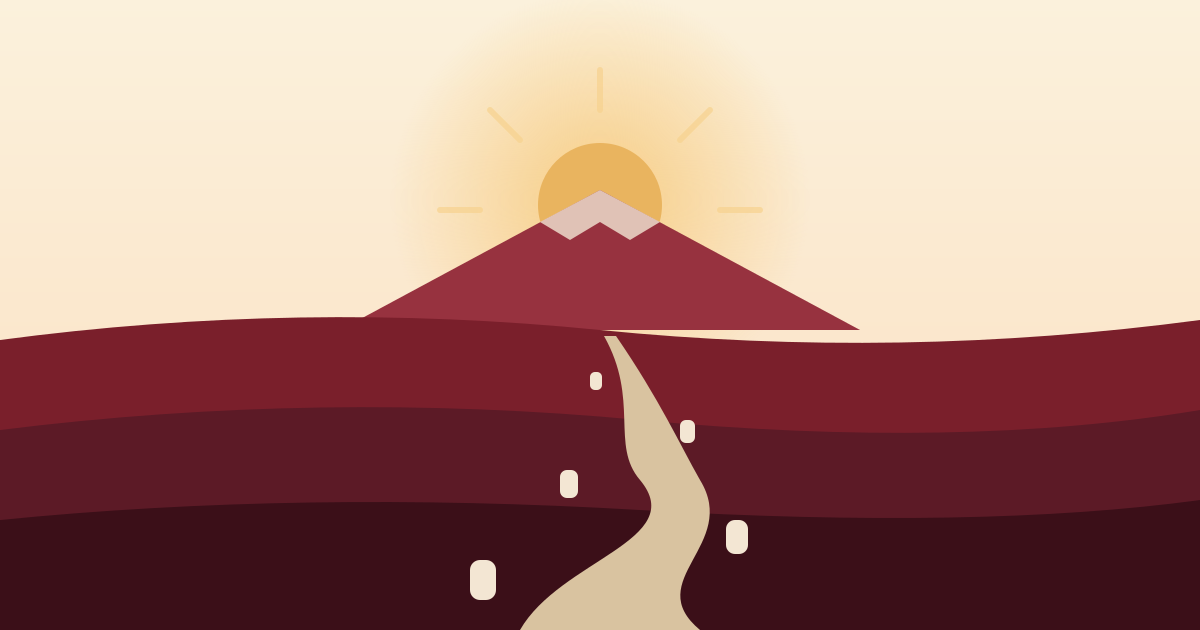
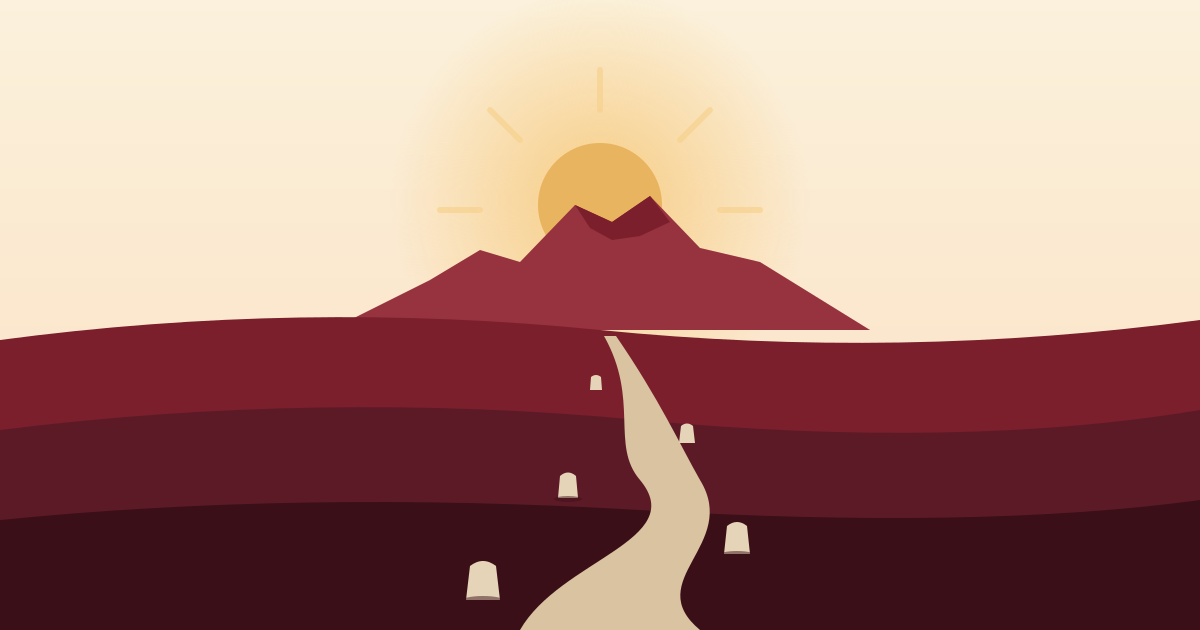
Janeiro: correções da revisão nas parashás e nos artigos; ilustrações refeitas
Claude-Session: https://claude.ai/code/session_01TaZ1YpWzM1atQDEi1ZX7Xa

diff --git a/src/content/blog/santa-ceia-e-pascoa-judaica.md b/src/content/blog/santa-ceia-e-pascoa-judaica.md
@@ -1,14 +1,14 @@
 ---
-title: "A Ceia do Senhor e a Páscoa judaica: o que mudou"
-description: "Como a Ceia do Senhor nasceu na Páscoa judaica: o pão sem fermento, os cálices, o hino e a memória, e o que isso muda ao participar da Ceia."
+title: "Santa Ceia e Páscoa judaica: o que Jesus mudou"
+description: "Como a Santa Ceia nasceu na Páscoa judaica: o pão sem fermento, os cálices, o hino e a memória, e o que isso muda ao participar da Ceia."
 pubDate: 2027-01-18T07:00:00-03:00
 image: "/images/posts/santa-ceia-e-pascoa-judaica.png"
-imageAlt: "Ilustração de uma mesa simples com pão achatado e um cálice, diante de uma janela em arco que mostra a lua cheia sobre colinas à noite"
+imageAlt: "Mesa simples ao ar livre com pão achatado, um cálice e uma lamparina acesa, diante das colinas sob a lua cheia"
 category: "Vida cristã"
 tags: ["contexto judaico", "Jesus", "festas bíblicas", "evangelhos"]
 ---
 
-**A Ceia do Senhor nasceu numa refeição de Páscoa: nos três primeiros evangelhos, Jesus a instituiu na ceia pascal com os discípulos, usando o pão sem fermento e o cálice de vinho, elementos da Páscoa judaica.** Ele mesmo disse: "Desejei muito comer convosco esta Páscoa, antes que padeça" (Lucas 22:15).
+**A Santa Ceia, ou Ceia do Senhor, nasceu numa refeição de Páscoa: nos três primeiros evangelhos, Jesus a instituiu na ceia pascal com os discípulos, usando o pão sem fermento e o cálice de vinho, elementos da Páscoa judaica.** Ele mesmo disse: "Desejei muito comer convosco esta Páscoa, antes que padeça" (Lucas 22:15).
 
 Muitos cristãos participam da Ceia há anos sem saber de onde vêm o pão e o cálice. Quando a gente conhece a Páscoa judaica, gestos simples ganham peso: o pão sem fermento, o cálice "depois da ceia", o hino no fim e a palavra "memória".
 
@@ -16,36 +16,36 @@ A seguir: como era a Páscoa no tempo de Jesus, o que os evangelhos contam da ú
 
 ## A Páscoa no tempo de Jesus
 
-A Páscoa lembra a libertação do Egito. Em Êxodo, cada família comia o cordeiro com pães sem fermento e ervas amargas, e Deus disse: "este dia vos será por memória" (Êxodo 12:14). Os filhos perguntariam o sentido da festa, e os pais contariam a história (Êxodo 12:26-27).
+A Páscoa lembra a libertação do Egito, contada em Êxodo 12 (veja o episódio da [parashá Bo, com a primeira Páscoa](/blog/parasha-bo-em-5-minutos/)). Cada família comia o cordeiro com pães sem fermento e ervas amargas, e a festa devia ser lembrada de geração em geração.
 
-No tempo de Jesus, multidões subiam a Jerusalém para a festa. A refeição era feita em família ou em grupos, à noite, com o cordeiro sacrificado no Templo, o pão sem fermento, vinho e salmos de louvor. O roteiro detalhado da ceia judaica de hoje, o *seder*, foi registrado depois, na Mishná, mas várias de suas partes já existiam: o pão, os cálices, as perguntas e os salmos.
+No tempo de Jesus, multidões subiam a Jerusalém para a festa. A refeição era feita em família ou em grupos, à noite, com o cordeiro sacrificado no Templo, o pão sem fermento, vinho e salmos de louvor. As primeiras regras do *seder*, a ceia judaica de Páscoa, aparecem na Mishná, por volta do ano 200; o roteiro usado hoje, a *Hagadá*, se formou depois. É provável que alguns elementos, como o pão sem fermento, as perguntas dos filhos (Êxodo 12:26) e os salmos de louvor, já existissem no tempo de Jesus.
 
 ## O que os evangelhos contam da última ceia
 
 Mateus, Marcos e Lucas situam a ceia na Páscoa: "no primeiro dia da Festa dos Pães Asmos, chegaram os discípulos junto de Jesus, dizendo: Onde queres que preparemos a comida da Páscoa?" (Mateus 26:17).
 
-Lucas conta que Jesus tomou um cálice antes do pão (Lucas 22:17) e outro "depois da ceia": "Este cálice é o Novo Testamento no meu sangue, que é derramado por vós" (Lucas 22:20). Isso combina com uma refeição de Páscoa, que tinha mais de um cálice.
+Lucas conta que Jesus tomou um cálice antes do pão (Lucas 22:17) e outro "depois da ceia": "Este cálice é o Novo Testamento no meu sangue, que é derramado por vós" (Lucas 22:20). Isso combina com a ceia de Páscoa descrita pela tradição judaica, que fala em quatro cálices.
 
 No fim, "tendo cantado um hino, saíram para o monte das Oliveiras" (Mateus 26:30). Muitos estudiosos entendem que era o *Hallel*, os Salmos 113 a 118, cantados na Páscoa. Se for isso, naquela noite Jesus cantou com os discípulos o Salmo 118: "A pedra que os edificadores rejeitaram tornou-se cabeça de esquina" (Salmos 118:22), um versículo que ele mesmo tinha aplicado a si dias antes (Mateus 21:42).
 
-O Evangelho de João conta a cronologia de outro jeito: a ceia acontece "antes da festa da Páscoa" (João 13:1), e Jesus é crucificado no dia da "preparação da Páscoa" (João 19:14), quando os cordeiros eram sacrificados. Os estudiosos discutem como harmonizar as datas. Nos dois casos, a ligação entre Jesus e a Páscoa é o centro.
+O Evangelho de João conta a cronologia de outro jeito. Na manhã seguinte à ceia, os líderes não entram no pretório de Pilatos para não se contaminarem e poderem comer a Páscoa (João 18:28), e Jesus é crucificado no dia da "preparação da Páscoa" (João 19:14), quando os cordeiros eram sacrificados. Pelo relato de João, a ceia de Jesus aconteceu antes da refeição pascal. Os estudiosos discutem como harmonizar as datas. Nos dois casos, a ligação entre Jesus e a Páscoa é o centro.
 
-## O que mudou na Ceia do Senhor
+## O que Jesus mudou na Santa Ceia
 
 Jesus pegou elementos da Páscoa e deu a eles um sentido novo:
 
 - **O pão.** O pão sem fermento lembrava a pressa da saída do Egito. Jesus disse: "Isto é o meu corpo, que por vós é dado; fazei isso em memória de mim" (Lucas 22:19).
 - **O cálice.** O vinho da festa passa a ser sinal da nova aliança. "Novo Testamento", na ARC, quer dizer "nova aliança", a promessa de Jeremias 31:31-33 de uma lei escrita no coração.
-- **A memória.** "Memória", em hebraico *zikaron*, não é só lembrar com a cabeça. Na Páscoa, cada geração conta a saída do Egito como se tivesse estado lá. Paulo diz que, ao participar da Ceia, "anunciais a morte do Senhor, até que venha" (1 Coríntios 11:26).
+- **A memória.** "Memória", em hebraico *zikaron*, não é só lembrar com a cabeça. A tradição judaica ensina que, na Páscoa, cada geração deve se ver como se ela mesma tivesse saído do Egito (Mishná, Pesachim 10:5). Paulo diz que, ao participar da Ceia, "anunciais a morte do Senhor, até que venha" (1 Coríntios 11:26).
 - **O cordeiro.** Na Ceia não há cordeiro na mesa. Para os cristãos, o próprio Jesus é o cordeiro: "Cristo, nossa páscoa, foi sacrificado por nós" (1 Coríntios 5:7).
 
 As igrejas celebram a Ceia com frequências e entendimentos diferentes sobre o pão e o vinho. O que todas guardam é o que Jesus mandou: fazer isso em memória dele.
 
 ## Como participar da Ceia com esse olhar
 
-1. **Antes do culto, leia Êxodo 12.** Repare no cordeiro, no sangue, no pão sem fermento e na palavra "memória".
+1. **Antes da celebração, leia Êxodo 12.** Repare no cordeiro, no sangue, no pão sem fermento e na palavra "memória". O [plano de leitura da Torá](/plano-de-leitura-tora/) mostra em que semana do ano esse capítulo é lido na sinagoga.
 2. **Leia também Lucas 22:14-20.** Veja os dois cálices e o pão.
-3. **Na hora do pão, lembre-se da pressa da libertação.** Deus tirou o seu povo da escravidão; em Jesus, ele também liberta.
+3. **Na hora do pão, lembre-se do corpo de Jesus dado por você** e da libertação que ele trouxe, como Deus tirou o seu povo do Egito.
 4. **Na hora do cálice, pense na nova aliança.** A lei escrita no coração, não só em pedra.
 5. **Saia cantando.** Como Jesus e os discípulos, termine com um salmo de louvor, como o Salmo 118.
 
@@ -58,8 +58,8 @@ As igrejas celebram a Ceia com frequências e entendimentos diferentes sobre o p
 **A Santa Ceia era uma refeição de Páscoa?**
 Nos evangelhos de Mateus, Marcos e Lucas, sim: Jesus a instituiu na ceia pascal (Mateus 26:17; Lucas 22:15). O Evangelho de João situa a ceia um pouco antes da Páscoa, e os estudiosos discutem como harmonizar as datas.
 
-**Por que se usa pão sem fermento na Ceia?**
-Porque na Páscoa só se comia pão sem fermento, lembrando a pressa da saída do Egito (Êxodo 12). Algumas igrejas usam pão sem fermento por isso; outras usam pão comum.
+**A Santa Ceia substitui a Páscoa judaica?**
+Para a fé cristã, a Ceia dá à Páscoa um sentido novo em Jesus, mas não apaga a festa de Israel, que os judeus continuam celebrando. Alguns cristãos participam de um *seder* para conhecer o contexto; isso é opcional, e as igrejas pensam diferente sobre o assunto.
 
 **Quantos cálices havia na Páscoa?**
 A tradição judaica registrada depois fala em quatro cálices. Lucas menciona dois na última ceia: um antes do pão e outro depois da ceia (Lucas 22:17-20).
@@ -72,10 +72,10 @@ Para continuar, leia o episódio da [parashá Bo, com a primeira Páscoa](/blog/
 
 ## Referências
 
-- Êxodo 12; 12:14; 12:26-27
+- Êxodo 12; 12:26
 - Lucas 22:14-20
 - Mateus 21:42; 26:17; 26:30
-- João 13:1; 19:14
+- João 18:28; 19:14
 - Jeremias 31:31-33
 - 1 Coríntios 5:7; 11:26
 - Salmos 113 a 118; 118:22

diff --git a/src/content/blog/o-que-e-a-tora.md b/src/content/blog/o-que-e-a-tora.md
@@ -3,7 +3,7 @@ title: "O que é a Torá? Significado, os 5 livros e Jesus"
 description: "O que é a Torá, o que a palavra significa, quais são os cinco livros, como ela é lida na sinagoga e como Jesus se relacionava com ela."
 pubDate: 2027-01-04T07:00:00-03:00
 image: "/images/posts/o-que-e-a-tora.png"
-imageAlt: "Ilustração de um caminho que sobe entre colinas até um monte iluminado pelo sol nascente, com cinco pedras de marco ao longo da estrada"
+imageAlt: "Caminho que sobe entre colinas até um monte de pedra iluminado pelo sol nascente, com cinco pedras de marco ao longo da estrada"
 category: "Vida cristã"
 tags: ["Torá", "contexto judaico", "estudo bíblico", "Jesus"]
 ---
@@ -36,15 +36,17 @@ A Bíblia hebraica tem três partes: a Torá, os Profetas (*Neviim*) e os Escrit
 
 ## Como a Torá é lida na sinagoga
 
-Na sinagoga, a Torá é lida de um rolo escrito à mão, o *Sefer Torá*, copiado letra por letra por um escriba. O texto é dividido em 54 porções, as *parashot*, e uma delas é lida a cada sábado.
+Na sinagoga, a Torá é lida de um rolo escrito à mão, o *Sefer Torá*, copiado letra por letra por um escriba. Hoje o texto é dividido em 54 porções, as *parashot*: uma (às vezes duas juntas) a cada sábado, de modo que a Torá inteira é lida em um ano. Às segundas e quintas de manhã, lê-se em público o começo da porção do sábado seguinte.
 
-Também há leituras menores às segundas e quintas de manhã e nas festas. Assim, a Torá inteira é lida em um ano. O ciclo termina e recomeça logo depois da Festa dos Tabernáculos, numa celebração chamada *Simchat Torá*, "alegria da Torá". Era esse costume de leitura que Jesus conhecia quando entrava na sinagoga no sábado (Lucas 4:16).
+O ciclo termina e recomeça no encerramento das festas de outono, no dia seguinte aos sete dias dos Tabernáculos (ou no outro, fora de Israel), numa celebração chamada *Simchat Torá*, "alegria da Torá".
 
-Além do texto escrito, o judaísmo tem a tradição oral, as explicações dos mestres sobre como viver a Torá, que mais tarde foram registradas na Mishná e no Talmude.
+A leitura da Torá aos sábados já existia no tempo de Jesus. Tiago lembra no concílio de Jerusalém: "Moisés, desde os tempos antigos, tem em cada cidade quem o pregue e, cada sábado, é lido nas sinagogas" (Atos 15:21). O ciclo anual de 54 porções e a festa de *Simchat Torá* se firmaram mais tarde; na terra de Israel, havia também um ciclo mais longo, de cerca de três anos.
+
+Além do texto escrito, o judaísmo tem a tradição oral, as explicações dos mestres sobre como viver a Torá, registradas na Mishná, por volta do ano 200, e depois no Talmude.
 
 ## Jesus e a Torá
 
-Jesus cresceu ouvindo a Torá e a citava o tempo todo. Quando foi tentado no deserto, respondeu três vezes com Deuteronômio (Mateus 4). Quando perguntaram pelo maior mandamento, citou o *Shemá*: "Ouve, Israel, o Senhor, nosso Deus, é o único Senhor" (Marcos 12:29, citando Deuteronômio 6:4).
+Jesus cresceu ouvindo a Torá e a citava o tempo todo. Quando foi tentado no deserto, respondeu três vezes com Deuteronômio (Mateus 4:1-11). Quando perguntaram pelo maior mandamento, juntou dois versículos da Torá: o amor a Deus, de Deuteronômio 6:5, e o amor ao próximo, de Levítico 19:18: "amarás o teu próximo como a ti mesmo. Eu sou o Senhor" (Levítico 19:18; veja Mateus 22:37-40).
 
 E disse com clareza: "Não cuideis que vim destruir a lei ou os profetas; não vim ab-rogar, mas cumprir" (Mateus 5:17). Para os cristãos, Jesus é o centro para onde a Torá aponta. Ele mesmo disse: "se vós crêsseis em Moisés, creríeis em mim, porque de mim escreveu ele" (João 5:46).
 
@@ -53,8 +55,8 @@ As igrejas têm entendimentos diferentes sobre como os mandamentos da Torá se a
 ## Como começar a ler a Torá
 
 1. **Comece por Gênesis e Êxodo.** São narrativos e mais fáceis. Deixe Levítico para depois, com um guia ao lado.
-2. **Siga a porção da semana.** A série [A parashá da semana em 5 minutos](/blog/parasha-shemot-em-5-minutos/) resume, toda sexta, a porção lida no sábado.
-3. **Leia com o Novo Testamento aberto.** Quando um texto do Novo Testamento citar a Torá, volte ao trecho original e leia o capítulo inteiro.
+2. **Siga a porção da semana.** A série [A parashá da semana em 5 minutos](/blog/parasha-shemot-em-5-minutos/) resume, toda sexta, a porção lida no sábado, e o [plano de leitura da Torá](/plano-de-leitura-tora/) traz o calendário do ano.
+3. **Leia também a *haftará*.** É o trecho dos Profetas lido na sinagoga no mesmo sábado, escolhido porque ecoa a porção da Torá. Comparar os dois textos ajuda a ver como a Bíblia conversa com ela mesma.
 4. **Anote uma palavra por semana.** Uma frase da Torá que você queira guardar, como o salmista: "Lâmpada para os meus pés é tua palavra e luz, para o meu caminho" (Salmos 119:105).
 
 ## Uma oração
@@ -82,8 +84,9 @@ Para continuar, veja as [palavras hebraicas do Novo Testamento e o que significa
 
 - Josué 1:8
 - Salmos 19:7; 119:105
-- Lucas 4:16; 24:44
-- Mateus 4; 5:17
-- Deuteronômio 6:4
-- Marcos 12:29
+- Lucas 24:44
+- Atos 15:21
+- Mateus 4:1-11; 5:17; 22:37-40
+- Deuteronômio 6:5
+- Levítico 19:18
 - João 5:46
